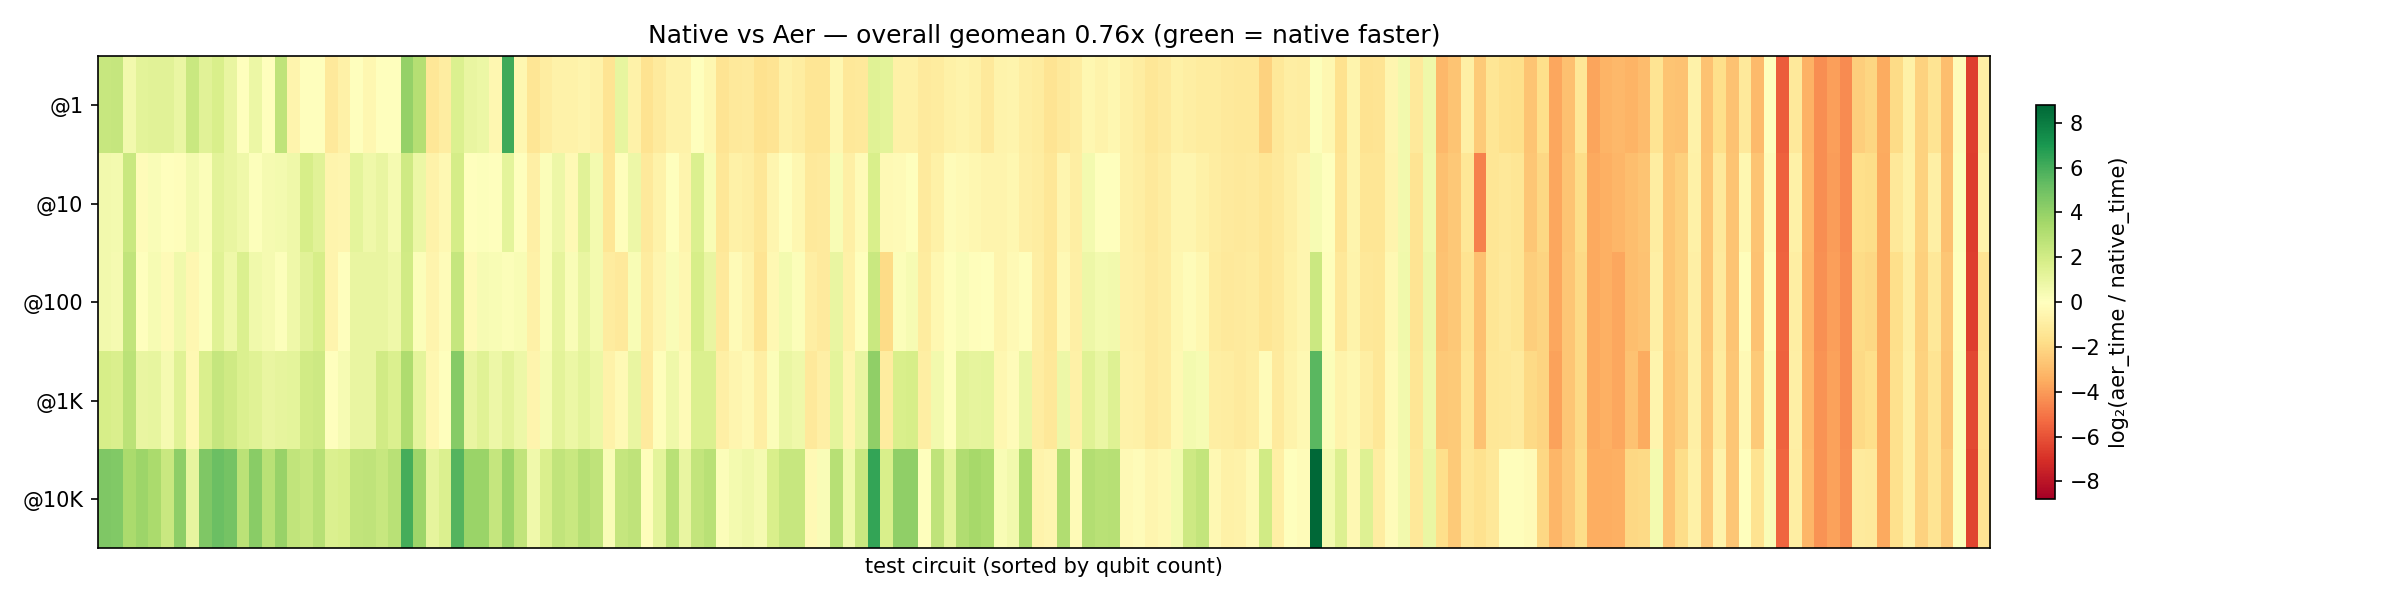
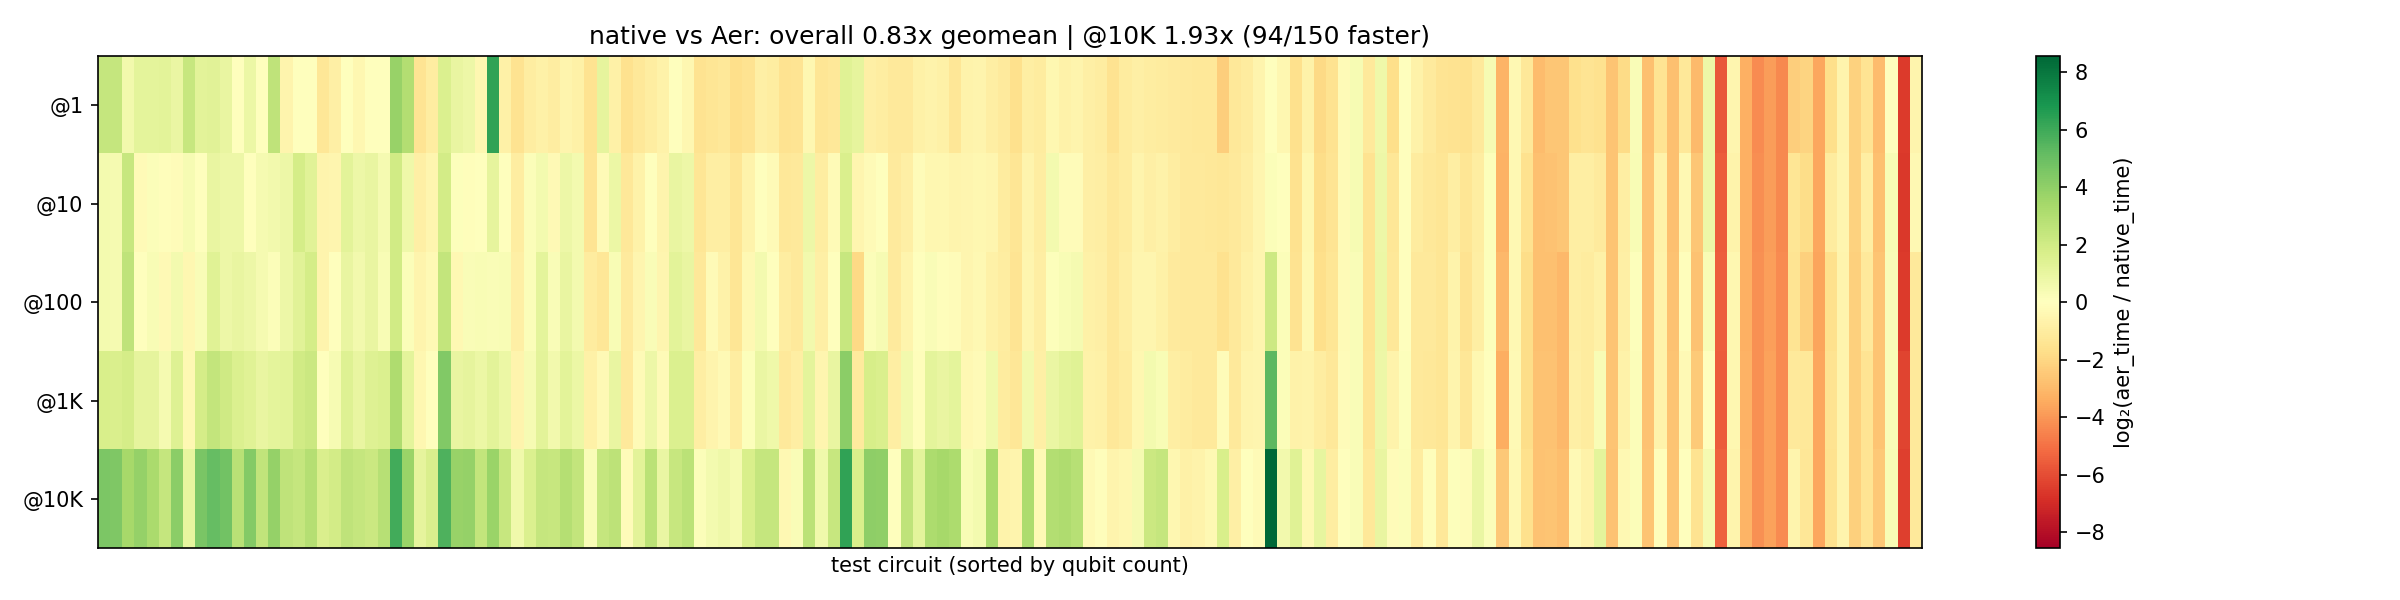
Record idx 28: double-buffer swap for MPS dense gates

Changed region(s): [[0.0312, 0.03, 0.9062, 0.96]]

diff --git a/docs/experiment-log.md b/docs/experiment-log.md
@@ -44,3 +44,4 @@ Metric column: core-6 @1000 total for idx 0-24; full-suite @1000 total (complete
 | F8 | (reverted) | Direct `out=` view writes replacing torch.stack. Eliminated stack/cat but added empty_like + select overhead that regressed all ≤12q circuits by 15-30%. 99 regressed vs 22 improved. | — | Did not work |
 | 26 | `c97e97f` | Two optimizations: (1) Fused multiply-add (`add_(alpha=)`) for dense gates, eliminating half the scalar broadcasts. (2) In-place view multiplication for 1q/2q diagonal gates, replacing `torch.where` + `scalar_tensor` + `fill_` (57% of CPU time for 24q IQP). 72 cases improved, 4 regressed. Geomean 1.07x. | 80.6s (151 cases) | Worked (1.05x) |
 | 27 | `3cb57a8` | Compile-time scalar pre-caching. At compile time, extract all per-gate scalars into a single flat device tensor (one CPU→device transfer). During execution, `buf[offset]` returns a 0-dim device tensor, eliminating per-gate `scalar_tensor` → `copy_` overhead. On MPS, only applied at ≥17q where per-gate copy_ cost exceeds cache-build overhead. CPU always caches (avoids Python→C++ scalar conversion). 84 improved, 5 regressed. Geomean 1.07x. | 77.5s (151 cases) | Worked (1.04x) |
+| 28 | `67138d8` | Double-buffer swap for MPS dense gates. Pre-allocate alternate state buffer, write results via `torch.mul(out=)`, swap pointers. Eliminates per-gate `torch.stack` allocation (128MB at 24q). MPS-only — CPU retains fma+stack. Also clones arena entries before gate loops to prevent in-place corruption. `brickwork_entangler_rt_16` 6.1x, `parametric_brickwork_rt_16` 4.6x, `brickwork_entangler_rt_20` 1.9x faster. 46 improved, 5 real regressions (all <16ms). Geomean 1.09x. | 71.9s (151 cases) | Worked (1.08x) |

diff --git a/README.md b/README.md
@@ -6,7 +6,7 @@ A state-vector quantum circuit simulator built from scratch with PyTorch, target
 
 156 test circuits spanning 2-24 qubits, 10 circuit families, static and dynamic workloads. Benchmarked against Qiskit Aer (IBM's C++ simulator) across 5 shot counts. Per-cell color is `log2(aer_time / native_time)` — green means this simulator is faster.
 
-At high shot counts (10K), native is **1.77x faster** than Aer (90/150 cases). At low shot counts (1-100), Aer's compiled C++ dispatch wins — native is 0.52-0.61x. Overall geometric mean across all 750 cells: **0.76x** (150 common cases, 5 shot counts).
+At high shot counts (10K), native is **1.93x faster** than Aer (94/150 cases). At low shot counts (1-100), Aer's compiled C++ dispatch wins — native is 0.57-0.66x. Overall geometric mean across all 750 cells: **0.83x** (150 common cases, 5 shot counts).
 
 ## Why this exists
 
